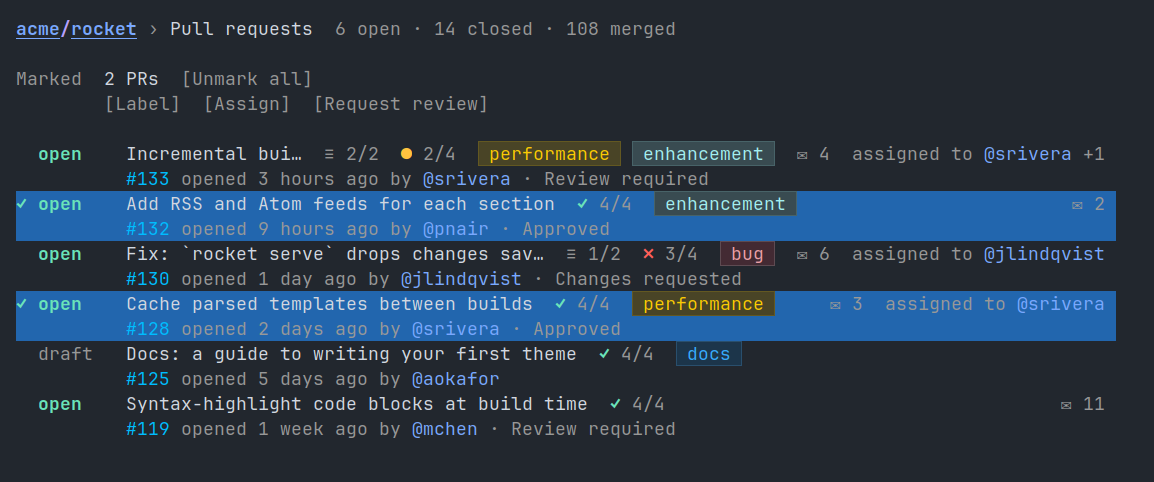
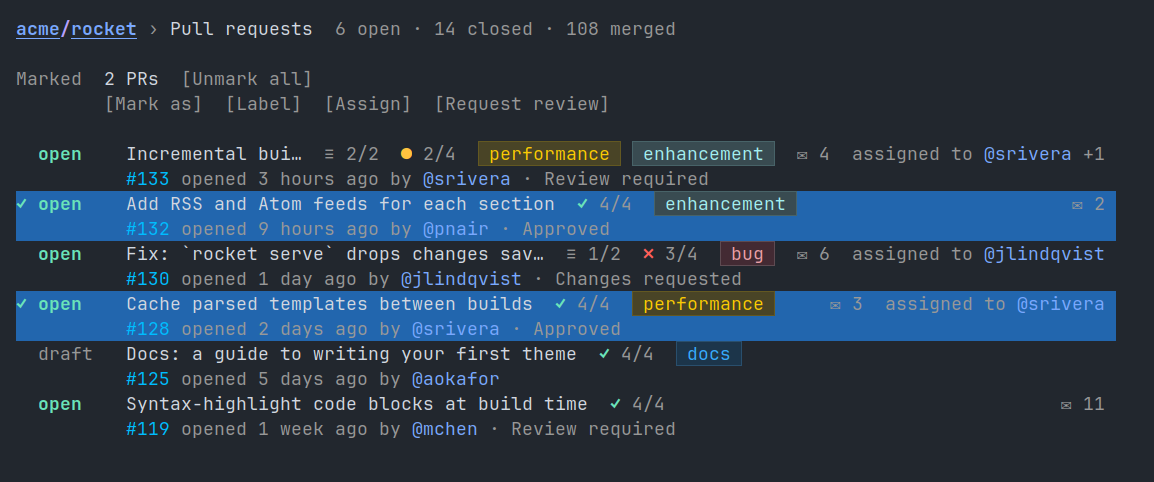
Close or reopen marked issues and PRs from the Marked bar

Changed region(s): [[0.0936, 0.1867, 0.5303, 0.249]]

diff --git a/docs/usage.md b/docs/usage.md
@@ -184,9 +184,11 @@ A marked row shows `✓` and is highlighted.  An item that leaves the
 list, after a new query or once closed, is unmarked.
 
 While items are marked, a **Marked** bar replaces the filters and acts
-on them: **[Label]**, **[Assign]** and, for PRs, **[Request review]**
-add or remove labels, assignees and requested reviewers on all of them
-at once.
+on them.  **[Mark as]** closes or reopens them, as GitHub's "Mark as":
+it asks for Open or Closed, then confirms the items that change, as
+those already in that state are left alone.  **[Label]**, **[Assign]**
+and, for PRs, **[Request review]** add or remove labels, assignees and
+requested reviewers on all of them at once.
 
 ## Actions (`M-x octocat-run-list`, `M-x octocat-workflow-list`)
 

diff --git a/CHANGELOG.md b/CHANGELOG.md
@@ -4,6 +4,7 @@ All notable changes to this project will be documented in this file.
 The format is based on [Keep a Changelog](https://keepachangelog.com/en/1.0.0/).
 
 ## [Unreleased]
+* Marked issues and PRs can be closed or reopened at once, from the Marked bar's [Mark as]
 * A file's blame keeps the commit of the top line in view when scrolled past its first line
 * A pull request's stack is a section of its own, before the merge box
 * "Merging can be performed automatically" now sits under "No conflicts", as on GitHub
